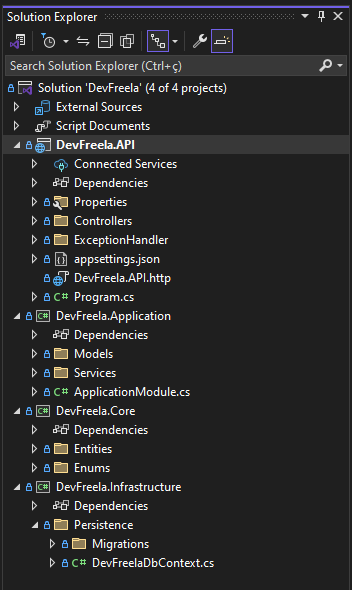
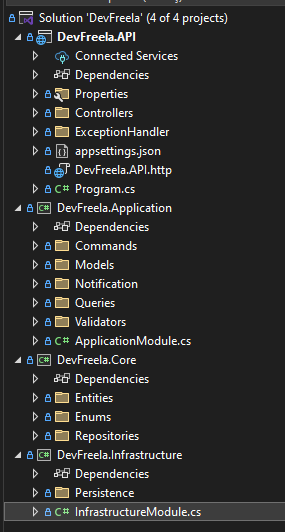
Atualização do readme

Changed region(s): [[0.0, 0.0, 1.0, 1.0]]

diff --git a/README.md b/README.md
@@ -1,4 +1,4 @@
-Esse projeto faz parte da minha formação na Mentoria .NET Start promovida pela Next Wave Education, durante o curso de ASP.NET Core liderado pelo professor Luis Felipe
+Esse projeto faz parte da minha formação na Mentoria .NET Start promovida pela Next Wave Education, durante o curso de ASP.NET Core liderado pelo professor Luis Felipe.
 
 ### Plataforma para cadastro e contratação de serviços de freelance de desenvolvedores
 O mercado de tecnologia não para de crescer. E com isso, a demanda por profissionais que possam atuar em projetos pontuais segue o mesmo ritmo.
@@ -17,11 +17,17 @@ Dessa necessidade, surgiu o projeto DevFreela que será desenvolvido neste curso
 4. Vão ser adicionadas mensagens ao projeto, sobre o avanço dele.
 5. O projeto poderá ser concluído, e o freelancer vai ter seu saldo atualizado, bem como seu perfil!
 
-### Conceitos aplicados até o momento
+### Conceitos aplicados até o momento:
 #### Formação ASP.NET Core
 - Rest APIs com ASP.NET CORE
 - Acesso a dados com Entity Framework
 - Arquitetura Limpa
+- Padrão Repository
+- Fluent Validation
+- CQRS com MediatR
+
+### Implementações futuras:
+- Testes unitarios
 
 ![Swagger](/Images/Swagger-DevFreela.png)
 ![Solution-Explorer](/Images/Solution-DevFreela.png)
